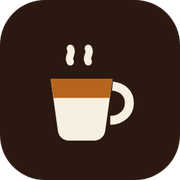
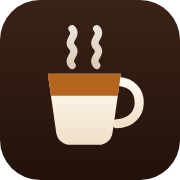
Fix homepage hierarchy, mobile tap targets, and card legibility
Audited every page at 1440 and 390 with a real browser. Findings and fixes:

The homepage explained itself last. The h1 sat below all nine area cards —
about 3,400px down on a phone — styled as 15px body text, so the page opened
by asking which suburb you wanted before saying what the site was. The
proposition, the scoring mechanism and the best-of chips now come first, with
the area grid under them, and the h1 is a heading again.

Reveal hid its children by default and only showed them once an
IntersectionObserver fired. Any failure to observe — no IntersectionObserver,
a hydration error, JS blocked — left whole sections permanently at opacity 0.
It now starts visible and only hides once the observer is confirmed running,
skips sections already on screen at mount, and honours prefers-reduced-motion.

Photo card text was hard to read: the scrim is painted in `ink`, which is
cream in light mode, so over a bright photo it never got dark enough for
espresso text. Strengthened, along with the count badge sitting on the photo.
The cards also clipped their own titles on a phone, where a fixed 16:9 box is
shorter than the description; they size to content below sm now.

Tap targets: footer nav, back links, breadcrumbs and the per-card "Full page"
links measured 18-20px. Padded to ~28-36px without changing the visual
rhythm, and MapLibre's 29px controls grow to 40px on coarse pointers only.
Pages under 30px on mobile went from 9 of 10 to 3 of 10, and the map page
[…]

diff --git a/app/page.tsx b/app/page.tsx
@@ -54,9 +54,9 @@ export default function HomePage() {
         </div>
         <div className="flex items-center gap-4">
           <nav className="wa-mono hidden items-center gap-6 text-paper/45 sm:flex">
-            <Link href="/collections" className="transition-colors hover:text-paper">Lists</Link>
-            <Link href="/blog" className="transition-colors hover:text-paper">Blog</Link>
-            <Link href="/mumbai" className="flex items-center gap-1.5 transition-colors hover:text-paper">
+            <Link href="/collections" className="-my-2 py-2 transition-colors hover:text-paper">Lists</Link>
+            <Link href="/blog" className="-my-2 py-2 transition-colors hover:text-paper">Blog</Link>
+            <Link href="/mumbai" className="-my-2 flex items-center gap-1.5 py-2 transition-colors hover:text-paper">
               Explore Mumbai <span className="text-[13px] leading-none">+</span>
             </Link>
           </nav>
@@ -65,7 +65,57 @@ export default function HomePage() {
       </header>
 
       <div className="relative z-10 mx-auto w-full max-w-6xl flex-1 px-6 py-10 sm:px-10">
-        <p className="wa-mono mb-4 text-paper/45 sm:hidden">Explore Mumbai</p>
+        {/* The proposition used to sit below all nine area cards — roughly
+            3,400px down on a phone. Someone landing here has to be told what
+            this is before they are asked to pick a neighbourhood. */}
+        <div className="max-w-2xl">
+          <h1 className="font-display text-[clamp(1.6rem,4.6vw,2.6rem)] font-medium leading-[1.15] tracking-tight">
+            Mumbai cafes you can{" "}
+            <em className="not-italic text-accent">actually</em> work from.
+          </h1>
+          <p className="mt-4 text-[15.5px] leading-relaxed text-paper/70">
+            Scored on what decides whether you last three hours: somewhere to plug in,
+            somewhere to sit, a connection that holds, and whether anyone minds you staying.
+          </p>
+          <p className="mt-3 text-[14px] leading-relaxed text-paper/50">
+            {CAFES.filter((c) => c.workability !== null).length} cafes graded on the same{" "}
+            {FACTORS.length} weighted factors, from published evidence, with every finding
+            cited. Another {CAFES.filter((c) => c.workability === null).length} are listed
+            with directory info while we work through scoring them properly.
+          </p>
+
+          <div className="mt-6 flex flex-wrap items-center gap-2.5">
+            <Link href="/mumbai" className="wa-btn wa-btn--solid !bg-paper !text-ink">
+              Open the map
+            </Link>
+            <Link href="/collections" className="wa-btn">
+              Best-of lists
+            </Link>
+            <Link href="/about" className="wa-btn">
+              How we score
+            </Link>
+          </div>
+        </div>
+
+        {/* Straight after the pitch, because "where can I plug in" is the
+            question people actually arrive with — not "which suburb". */}
+        <div className="mt-10">
+          <p className="wa-mono mb-3 text-paper/40">Start from what you need today</p>
+          <div className="flex flex-wrap gap-2">
+            {COLLECTIONS.map((collection) => (
+              <Link
+                key={collection.slug}
+                href={`/collections/${collection.slug}`}
+                className="wa-mono flex items-center gap-2 rounded-full border border-paper/12 px-3.5 py-2 text-paper/60 transition-colors hover:bg-paper/[0.04] hover:text-paper"
+              >
+                {collection.name}
+                <span className="text-paper/30">{collectionCount(collection)}</span>
+              </Link>
+            ))}
+          </div>
+        </div>
+
+        <p className="wa-mono mb-4 mt-12 text-paper/40">Explore by area</p>
         <div className="grid gap-4 md:grid-cols-2 lg:grid-cols-3">
           {(Object.values(AREAS)).map((area, i) => {
             const count = cafesByArea(area.slug).length;
@@ -74,7 +124,7 @@ export default function HomePage() {
               <Link
                 key={area.slug}
                 href={`/mumbai?area=${area.slug}`}
-                className="wa-fade group relative flex aspect-[4/3] flex-col justify-end overflow-hidden rounded-2xl border border-paper/12 sm:aspect-[16/10] lg:aspect-[4/3]"
+                className="wa-fade group relative flex min-h-[210px] flex-col justify-end overflow-hidden rounded-2xl border border-paper/12 sm:min-h-0 sm:aspect-[16/10] lg:aspect-[4/3]"
                 style={{ animationDelay: `${i * 90}ms` }}
               >
                 <span className="absolute inset-0 transition-transform duration-[900ms] ease-out group-hover:scale-[1.035]">
@@ -91,11 +141,11 @@ export default function HomePage() {
                     <Skyline variant={style.variant} />
                   )}
                 </span>
-                <span className="wa-mono absolute right-4 top-4 z-10 flex items-center gap-1.5 rounded-full border border-paper/15 bg-ink/60 px-2.5 py-1 text-paper/70 backdrop-blur-sm">
+                <span className="wa-mono absolute right-4 top-4 z-10 flex items-center gap-1.5 rounded-full border border-paper/15 bg-ink/85 px-2.5 py-1 text-paper/80 backdrop-blur-sm">
                   <PinBadge color={style.pin} size={11} />
                   {count}
                 </span>
-                <span className="relative z-10 bg-gradient-to-t from-ink/95 via-ink/40 to-transparent p-6">
+                <span className="relative z-10 bg-gradient-to-t from-ink via-ink/90 to-transparent p-6 pt-14">
                   <span className="font-display block text-xl font-medium tracking-tight sm:text-2xl">
                     {area.name}
                   </span>
@@ -108,37 +158,6 @@ export default function HomePage() {
             );
           })}
         </div>
-
-        <div className="mt-10 max-w-2xl">
-          <h1 className="text-[15px] font-normal leading-relaxed text-paper/80">
-            Mumbai cafes you can actually work from, scored on what decides whether you last
-            three hours: somewhere to plug in, somewhere to sit, a connection that holds, and
-            whether anyone minds you staying.{" "}
-            <span className="text-paper/50">
-              {CAFES.filter((c) => c.workability !== null).length} cafes across Mumbai are graded
-              on the same {FACTORS.length} weighted factors, from published evidence, with every
-              finding cited. Another{" "}
-              {CAFES.filter((c) => c.workability === null).length} are
-              listed with directory info while we work through scoring them properly.
-            </span>
-          </h1>
-        </div>
-
-        <Reveal className="mt-12">
-          <p className="wa-mono mb-4 text-paper/40">Start from what you need today</p>
-          <div className="flex flex-wrap gap-2">
-            {COLLECTIONS.map((collection) => (
-              <Link
-                key={collection.slug}
-                href={`/collections/${collection.slug}`}
-                className="wa-mono flex items-center gap-2 rounded-full border border-paper/12 px-3.5 py-2 text-paper/60 transition-colors hover:bg-paper/[0.04] hover:text-paper"
-              >
-                {collection.name}
-                <span className="text-paper/30">{collectionCount(collection)}</span>
-              </Link>
-            ))}
-          </div>
-        </Reveal>
 
         <Reveal className="mt-12">
           <p className="wa-mono mb-4 text-paper/40">A few we&apos;d actually go back to</p>

diff --git a/components/Footer.tsx b/components/Footer.tsx
@@ -19,23 +19,23 @@ export default function Footer() {
 
         <div>
           <p className="wa-mono mb-3 text-paper/40">Explore</p>
-          <nav className="flex flex-col gap-2 text-[13.5px]">
-            <Link href="/mumbai" className="text-paper/65 transition-colors hover:text-paper">The map</Link>
-            <Link href="/collections" className="text-paper/65 transition-colors hover:text-paper">Best-of lists</Link>
-            <Link href="/blog" className="text-paper/65 transition-colors hover:text-paper">Blog</Link>
-            <Link href="/about" className="text-paper/65 transition-colors hover:text-paper">How we score</Link>
-            <Link href="/submit" className="text-paper/65 transition-colors hover:text-paper">Submit a cafe</Link>
+          <nav className="flex flex-col gap-3 text-[13.5px] sm:gap-2">
+            <Link href="/mumbai" className="-my-1.5 py-1.5 text-paper/65 transition-colors hover:text-paper">The map</Link>
+            <Link href="/collections" className="-my-1.5 py-1.5 text-paper/65 transition-colors hover:text-paper">Best-of lists</Link>
+            <Link href="/blog" className="-my-1.5 py-1.5 text-paper/65 transition-colors hover:text-paper">Blog</Link>
+            <Link href="/about" className="-my-1.5 py-1.5 text-paper/65 transition-colors hover:text-paper">How we score</Link>
+            <Link href="/submit" className="-my-1.5 py-1.5 text-paper/65 transition-colors hover:text-paper">Submit a cafe</Link>
           </nav>
         </div>
 
         <div>
           <p className="wa-mono mb-3 text-paper/40">Areas</p>
-          <nav className="flex flex-col gap-2 text-[13.5px]">
+          <nav className="flex flex-col gap-3 text-[13.5px] sm:gap-2">
             {Object.values(AREAS).map((area) => (
               <Link
                 key={area.slug}
                 href={`/mumbai?area=${area.slug}`}
-                className="text-paper/65 transition-colors hover:text-paper"
+                className="-my-1.5 py-1.5 text-paper/65 transition-colors hover:text-paper"
               >
                 {area.name}
               </Link>

diff --git a/components/Reveal.tsx b/components/Reveal.tsx
@@ -12,15 +12,27 @@ export default function Reveal({
   className?: string;
 }) {
   const ref = useRef<HTMLDivElement | null>(null);
-  const [visible, setVisible] = useState(false);
+  // Starts visible and is only hidden once we know the observer is running.
+  // The other way round, any failure to observe — no IntersectionObserver, a
+  // hydration error, JS blocked — left the section permanently at opacity 0,
+  // silently costing the page its content rather than just its animation.
+  const [hidden, setHidden] = useState(false);
 
   useEffect(() => {
     const el = ref.current;
-    if (!el) return;
+    if (!el || typeof IntersectionObserver === "undefined") return;
+    if (window.matchMedia("(prefers-reduced-motion: reduce)").matches) return;
+
+    // Already on screen at mount: nothing to animate into, so leave it alone
+    // rather than hiding it and fading it straight back in.
+    const rect = el.getBoundingClientRect();
+    if (rect.top < window.innerHeight) return;
+
+    setHidden(true);
     const observer = new IntersectionObserver(
       ([entry]) => {
         if (entry.isIntersecting) {
-          setVisible(true);
+          setHidden(false);
           observer.disconnect();
         }
       },
@@ -35,8 +47,8 @@ export default function Reveal({
       ref={ref}
       className={className}
       style={{
-        opacity: visible ? 1 : 0,
-        transform: visible ? "translateY(0)" : "translateY(16px)",
+        opacity: hidden ? 0 : 1,
+        transform: hidden ? "translateY(16px)" : "translateY(0)",
         transition: `opacity 0.6s ease ${delay}ms, transform 0.6s ease ${delay}ms`,
       }}
     >

diff --git a/app/mumbai/MumbaiScreen.tsx b/app/mumbai/MumbaiScreen.tsx
@@ -107,7 +107,10 @@ export default function MumbaiScreen({ initialArea }: { initialArea: AreaSlug | 
             Bombay Cafe <em className="font-semibold not-italic italic">Map</em>
           </Link>
           <div className="flex items-center gap-3 md:gap-5">
-            <Link href="/blog" className="wa-mono hidden text-paper/45 hover:text-paper md:block">
+            <Link href="/collections" className="wa-mono -my-2 py-2 text-paper/45 hover:text-paper">
+              Lists
+            </Link>
+            <Link href="/blog" className="wa-mono -my-2 hidden py-2 text-paper/45 hover:text-paper md:block">
               Blog
             </Link>
             <div className="hidden md:block">{areaDropdown}</div>
@@ -158,7 +161,16 @@ export default function MumbaiScreen({ initialArea }: { initialArea: AreaSlug | 
             ) : (
               <>
                 <div className="border-b border-paper/10 px-4 py-3">
-                  <FactorLegend />
+                  <div className="hidden md:block">
+                    <FactorLegend />
+                  </div>
+                  <Link
+                    href="/about"
+                    className="wa-mono flex items-center justify-between gap-2 text-paper/40 hover:text-paper md:hidden"
+                  >
+                    <span>{cafes.length} cafes · scored on 9 weighted factors</span>
+                    <span>→</span>
+                  </Link>
                 </div>
                 <div className="space-y-2.5 p-3">
                   {cafes.map((cafe) => (

diff --git a/app/submit/page.tsx b/app/submit/page.tsx
@@ -45,15 +45,15 @@ export default function SubmitPage() {
       <div className="mx-auto max-w-lg">
         <div className="flex items-center justify-between gap-4">
           <div className="flex items-center justify-between gap-4">
-            <Link href="/" className="wa-mono text-paper/45 hover:text-paper">
+            <Link href="/" className="wa-mono -my-2 py-2 text-paper/45 transition-colors hover:text-paper">
               ← Bombay Cafe Map
             </Link>
             <ThemeToggle />
           </div>
           <nav className="wa-mono flex gap-4 text-paper/45">
-            <Link href="/mumbai" className="hover:text-paper">The map</Link>
-            <Link href="/blog" className="hover:text-paper">Blog</Link>
-            <Link href="/about" className="hover:text-paper">About</Link>
+            <Link href="/mumbai" className="-my-1.5 inline-block py-1.5 transition-colors hover:text-paper">The map</Link>
+            <Link href="/blog" className="-my-1.5 inline-block py-1.5 transition-colors hover:text-paper">Blog</Link>
+            <Link href="/about" className="-my-1.5 inline-block py-1.5 transition-colors hover:text-paper">About</Link>
           </nav>
         </div>
         <h1 className="font-display mt-6 text-[clamp(1.6rem,3.6vw,2.1rem)] font-medium tracking-tight">

diff --git a/app/blog/15-best-cafes-to-work-from-in-mumbai/page.tsx b/app/blog/15-best-cafes-to-work-from-in-mumbai/page.tsx
@@ -89,7 +89,7 @@ export default function Post() {
       <script type="application/ld+json" dangerouslySetInnerHTML={{ __html: JSON.stringify(faqLd) }} />
       <div className="mx-auto max-w-2xl">
         <div className="flex items-center justify-between gap-4">
-          <Link href="/blog" className="wa-mono text-paper/45 hover:text-paper">
+          <Link href="/blog" className="wa-mono -my-2 py-2 text-paper/45 transition-colors hover:text-paper">
             ← Blog
           </Link>
           <ThemeToggle />
@@ -163,7 +163,7 @@ export default function Post() {
                   {cafe.address}
                   {cafe.openingHours ? ` · ${cafe.openingHours}` : ""}
                 </p>
-                <Link href={`/mumbai/${cafe.slug}`} className="wa-mono mt-1.5 inline-block text-paper/40 hover:text-paper">
+                <Link href={`/mumbai/${cafe.slug}`} className="wa-mono mt-1 inline-block py-1.5 text-paper/40 transition-colors hover:text-paper">
                   Full profile and evidence →
                 </Link>
               </li>

diff --git a/app/manifest.ts b/app/manifest.ts
@@ -1,0 +1,24 @@
+import type { MetadataRoute } from "next";
+
+export default function manifest(): MetadataRoute.Manifest {
+  return {
+    name: "Bombay Cafe Map",
+    short_name: "Cafe Map",
+    description:
+      "Mumbai cafes scored on whether you can actually work from them — power, wifi, seating, and whether they'll let you stay.",
+    start_url: "/mumbai",
+    display: "standalone",
+    background_color: "#f7efe0",
+    theme_color: "#2b1810",
+    orientation: "portrait",
+    categories: ["travel", "food", "productivity"],
+    icons: [
+      { src: "/icon-192.png", sizes: "192x192", type: "image/png", purpose: "any" },
+      { src: "/icon-512.png", sizes: "512x512", type: "image/png", purpose: "any" },
+      // Android crops home-screen icons to a squircle; the "any" icons would
+      // lose their rounded corners and clip the cup, so it gets its own art
+      // with the cup pulled into the safe zone.
+      { src: "/icon-maskable-512.png", sizes: "512x512", type: "image/png", purpose: "maskable" },
+    ],
+  };
+}

diff --git a/app/mumbai/[slug]/page.tsx b/app/mumbai/[slug]/page.tsx
@@ -143,11 +143,11 @@ export default async function CafePage({ params }: { params: Promise<{ slug: str
       <div className="mx-auto max-w-2xl">
         <div className="flex items-start justify-between gap-4">
           <nav className="wa-mono flex flex-wrap gap-1.5 text-paper/40">
-            <Link href="/" className="hover:text-paper">Bombay Cafe Map</Link>
+            <Link href="/" className="-my-1.5 py-1.5 transition-colors hover:text-paper">Bombay Cafe Map</Link>
             <span>/</span>
-            <Link href="/mumbai" className="hover:text-paper">Mumbai</Link>
+            <Link href="/mumbai" className="-my-1.5 py-1.5 transition-colors hover:text-paper">Mumbai</Link>
             <span>/</span>
-            <Link href={`/mumbai?area=${cafe.area}`} className="hover:text-paper">{areaName}</Link>
+            <Link href={`/mumbai?area=${cafe.area}`} className="-my-1.5 py-1.5 transition-colors hover:text-paper">{areaName}</Link>
           </nav>
           <ThemeToggle />
         </div>

diff --git a/app/blog/whats-new-in-mumbais-cafe-scene/page.tsx b/app/blog/whats-new-in-mumbais-cafe-scene/page.tsx
@@ -47,7 +47,7 @@ export default function Post() {
       <script type="application/ld+json" dangerouslySetInnerHTML={{ __html: JSON.stringify(articleLd) }} />
       <div className="mx-auto max-w-2xl">
         <div className="flex items-center justify-between gap-4">
-          <Link href="/blog" className="wa-mono text-paper/45 hover:text-paper">
+          <Link href="/blog" className="wa-mono -my-2 py-2 text-paper/45 transition-colors hover:text-paper">
             ← Blog
           </Link>
           <ThemeToggle />

diff --git a/app/about/page.tsx b/app/about/page.tsx
@@ -63,7 +63,7 @@ export default function AboutPage() {
       <div className="mx-auto max-w-2xl">
         <div className="flex items-center justify-between gap-4">
           <div className="flex items-center justify-between gap-4">
-            <Link href="/" className="wa-mono text-paper/45 hover:text-paper">
+            <Link href="/" className="wa-mono -my-2 py-2 text-paper/45 transition-colors hover:text-paper">
               ← Bombay Cafe Map
             </Link>
             <ThemeToggle />

diff --git a/app/collections/page.tsx b/app/collections/page.tsx
@@ -27,7 +27,7 @@ export default function CollectionsIndex() {
     <main className="min-h-dvh bg-ink text-paper">
       <div className="mx-auto max-w-3xl px-6 py-10 sm:px-10">
         <div className="flex items-center justify-between gap-4">
-          <Link href="/" className="wa-mono text-paper/45 hover:text-paper">
+          <Link href="/" className="wa-mono -my-2 py-2 text-paper/45 transition-colors hover:text-paper">
             ← Bombay Cafe Map
           </Link>
           <ThemeToggle />

diff --git a/app/blog/page.tsx b/app/blog/page.tsx
@@ -26,7 +26,7 @@ export default function BlogIndex() {
     <main className="min-h-dvh bg-ink px-6 py-10 text-paper sm:px-10">
       <div className="mx-auto max-w-2xl">
         <div className="flex items-center justify-between gap-4">
-          <Link href="/" className="wa-mono text-paper/45 hover:text-paper">
+          <Link href="/" className="wa-mono -my-2 py-2 text-paper/45 transition-colors hover:text-paper">
             ← Bombay Cafe Map
           </Link>
           <ThemeToggle />
